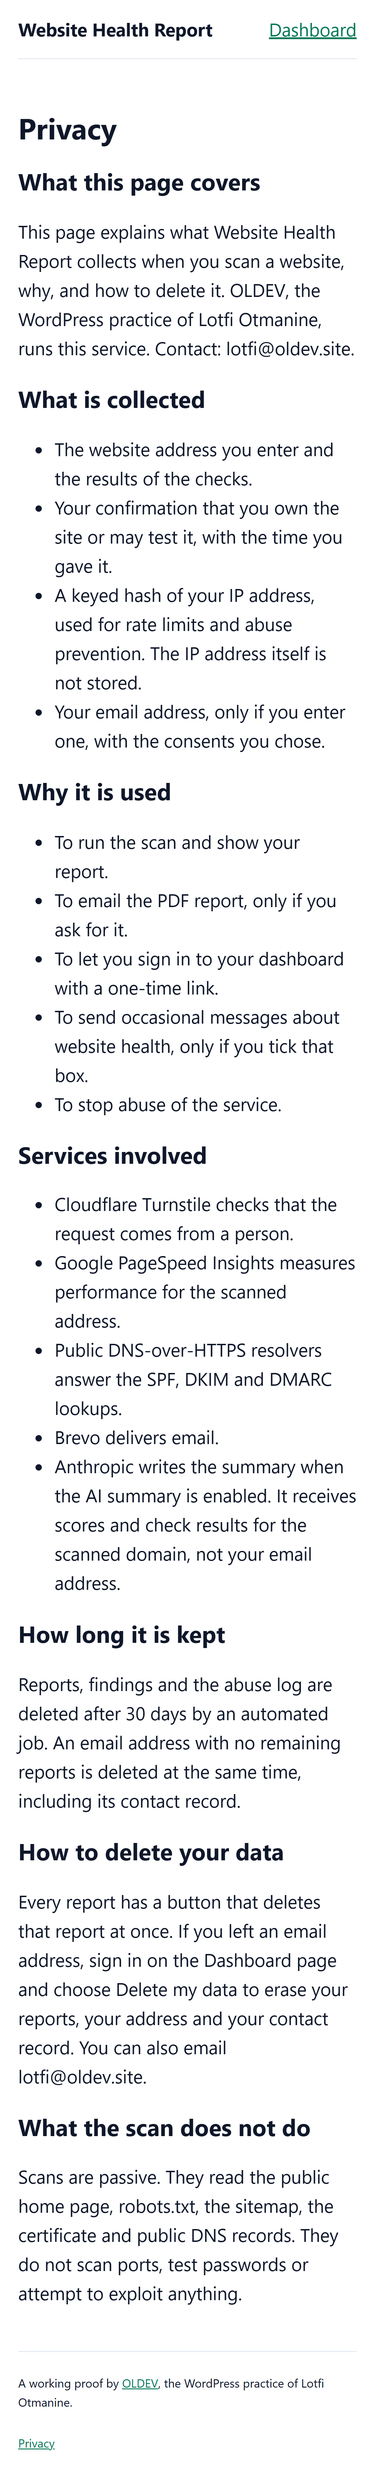
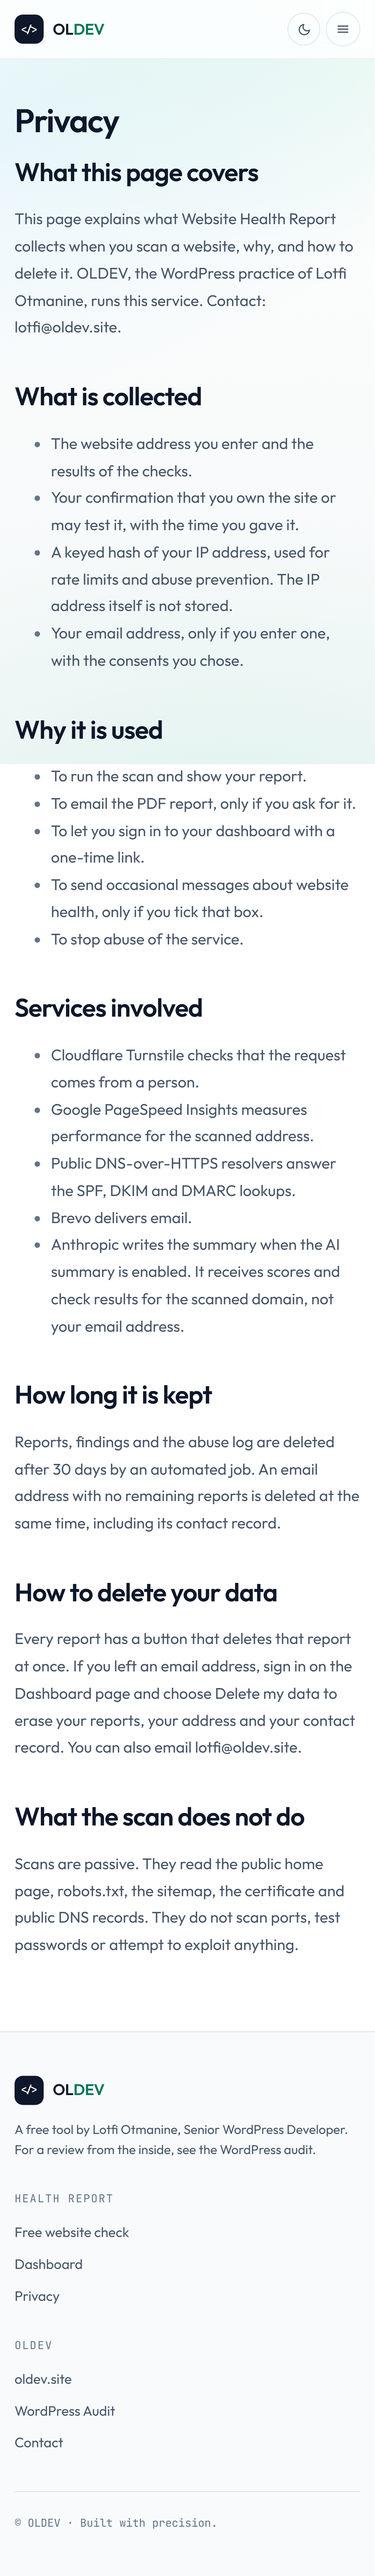
Cover the new menu and theme toggle in e2e tests, refresh screenshots

diff --git a/tests/e2e/specs/scan.spec.js b/tests/e2e/specs/scan.spec.js
@@ -11,6 +11,46 @@ test( 'landing page explains the service and fits the screen', async ( { page },
 	await page.screenshot( { path: shot( 'landing-' + info.project.name ), fullPage: true } );
 } );
 
+test( 'the menu leads to oldev.site and the title has no dashes', async ( { page }, info ) => {
+	await page.goto( '/' );
+	await expect( page ).toHaveTitle( 'Website Health Report | Passive website health checks' );
+	expect( await page.title() ).not.toMatch( /[\u2013\u2014]/ );
+
+	const nav = page.getByRole( 'navigation', { name: 'Primary' } );
+	if ( 'phone' === info.project.name ) {
+		await nav.getByLabel( 'Open menu' ).click();
+	}
+	await expect( nav.getByRole( 'link', { name: 'Visit oldev.site' } ).filter( { visible: true } ) ).toHaveAttribute( 'href', 'https://oldev.site/' );
+	await expect( nav.getByRole( 'link', { name: 'WordPress Audit' } ).filter( { visible: true } ) ).toHaveAttribute( 'href', 'https://oldev.site/wordpress-audit/' );
+	await expect( nav.getByRole( 'link', { name: 'Contact' } ).filter( { visible: true } ) ).toHaveAttribute( 'href', 'https://oldev.site/contact' );
+} );
+
+test( 'dark mode follows the system and the toggle remembers the choice', async ( { browser }, info ) => {
+	const { viewport, deviceScaleFactor, isMobile, hasTouch, userAgent, baseURL } = info.project.use;
+	const context = await browser.newContext( {
+		viewport,
+		deviceScaleFactor,
+		isMobile,
+		hasTouch,
+		userAgent,
+		colorScheme: 'dark',
+		baseURL: baseURL || process.env.E2E_BASE_URL || 'http://localhost:18081',
+	} );
+	const page = await context.newPage();
+	await page.goto( '/' );
+	await expect( page.locator( 'html' ) ).toHaveClass( /\bdark\b/ );
+	expect( await noSidewaysScroll( page ) ).toBe( true );
+	await page.screenshot( { path: shot( 'landing-dark-' + info.project.name ), fullPage: true } );
+
+	const toggle = page.getByRole( 'button', { name: 'Toggle dark mode' } );
+	await toggle.click();
+	await expect( page.locator( 'html' ) ).not.toHaveClass( /\bdark\b/ );
+	await expect( toggle ).toHaveAttribute( 'aria-pressed', 'false' );
+	await page.reload();
+	await expect( page.locator( 'html' ) ).not.toHaveClass( /\bdark\b/ );
+	await context.close();
+} );
+
 test( 'the form needs the consent box', async ( { page } ) => {
 	await page.goto( '/' );
 	await page.getByLabel( 'Website address' ).fill( 'oldev.site' );

diff --git a/README.md b/README.md
@@ -29,7 +29,7 @@ flowchart TD
 | Part | Path | Job |
 |---|---|---|
 | WordPress plugin | `wordpress/plugin/oldev-health-report` | Intake, limits, queue, scoring, reports, dashboard, admin screen |
-| Block theme | `wordpress/theme/oldev-health` | Landing page and layout |
+| Block theme | `wordpress/theme/oldev-health` | Landing page and layout in the oldev.site design system, light and dark |
 | Scanner | `scanner` | Laravel service for outbound requests to untrusted hosts |
 | n8n workflows | `n8n` | Orchestration, retries, signed result, alert |
 | End-to-end tests | `tests/e2e` | Playwright, desktop and phone |
@@ -58,13 +58,18 @@ Design, data model, message contracts and the threat model are in [PLAN.md](PLAN
 
 ## Screenshots
 
-| Landing | Report on phone | Dashboard on phone |
-|---|---|---|
-| ![Landing](docs/screenshots/landing-phone.png) | ![Report](docs/screenshots/report-phone.png) | ![Dashboard](docs/screenshots/dashboard-phone.png) |
+| Landing | Landing, dark | Report on phone | Dashboard on phone |
+|---|---|---|---|
+| ![Landing](docs/screenshots/landing-phone.png) | ![Landing in dark mode](docs/screenshots/landing-dark-phone.png) | ![Report](docs/screenshots/report-phone.png) | ![Dashboard](docs/screenshots/dashboard-phone.png) |
 
 ![Admin screen](docs/screenshots/admin-desktop-light.png)
 
 A real report for `oldev.site` is in [docs/sample-report](docs/sample-report).
+
+The theme follows the oldev.site design system: the same colour tokens for light and dark, Outfit and
+JetBrains Mono, buttons, cards, header and footer. It defaults to the visitor's system preference and
+remembers the toggle. Both fonts are self-hosted as single latin variable files (OFL licences next to
+them): the site's CSP allows fonts only from its own origin, and it saves a third-party connection.
 
 ## Run it locally
 
